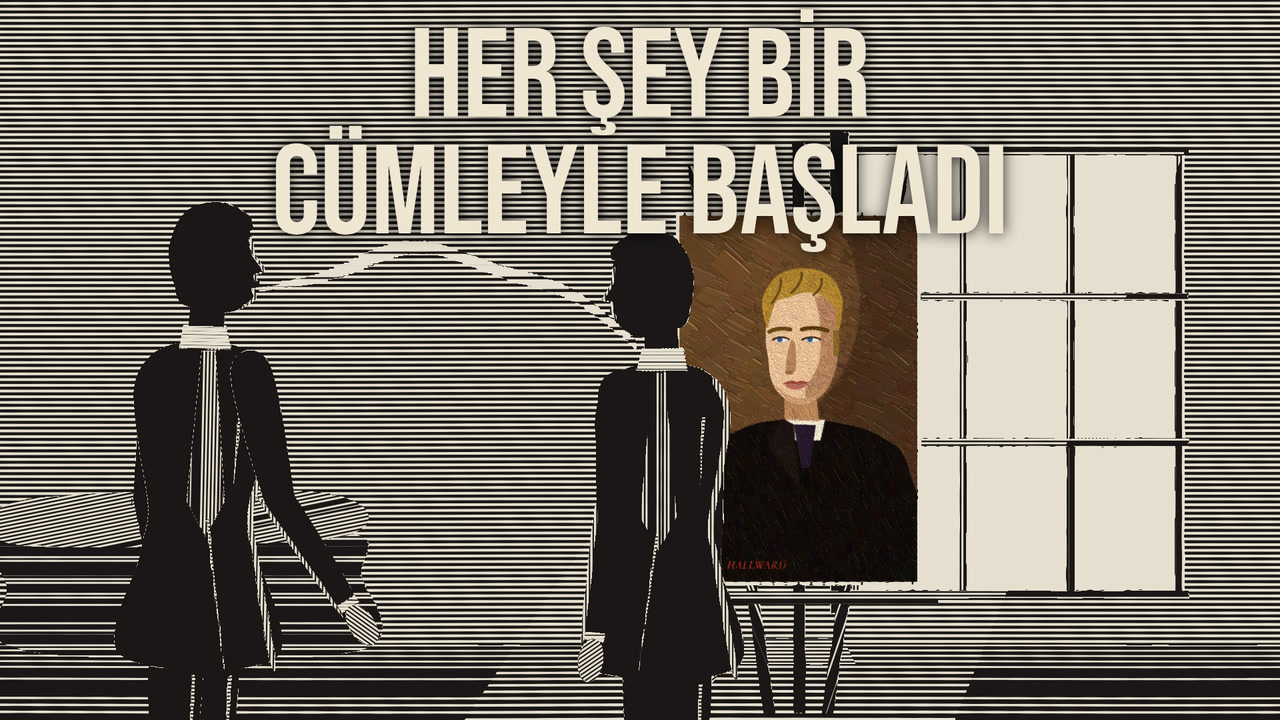
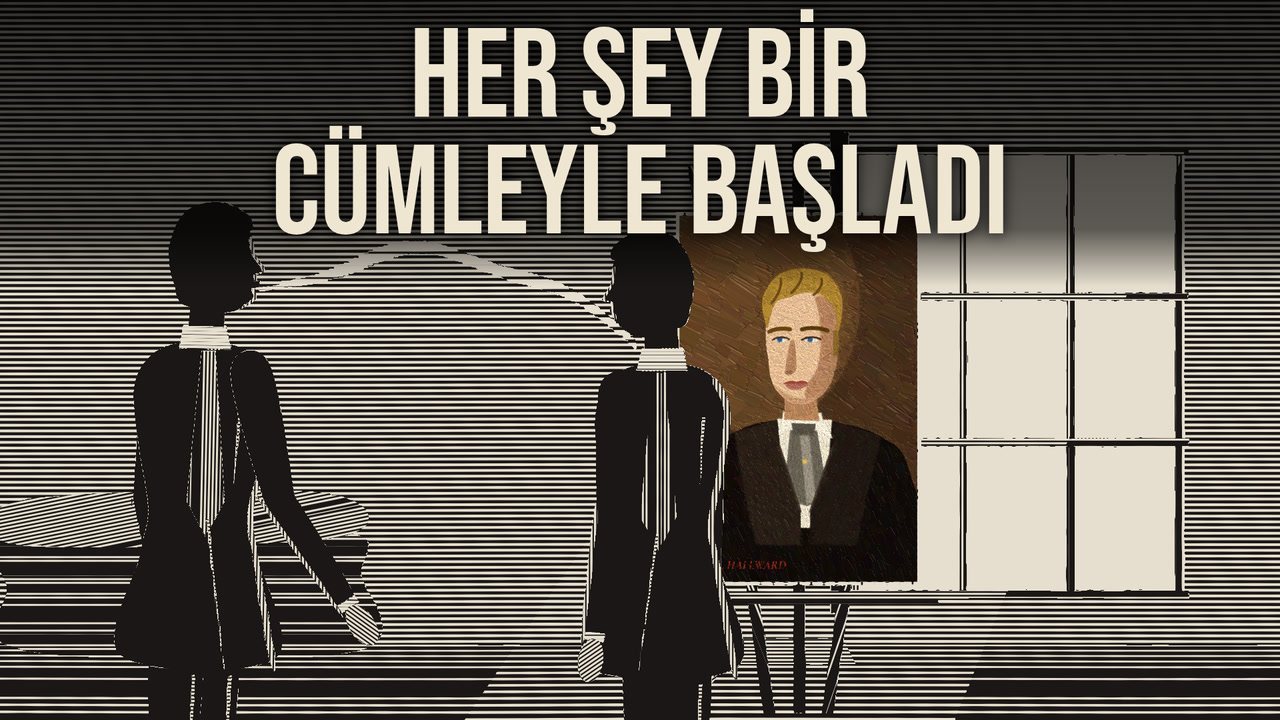
Dorian Gray: Fable son yorumundan düzeltmeler
- Portre: düz beyaz bant + koyu kravat papaz yakası gibi okunuyordu; beyaz gömlek önü, kanatlı yaka, gri ipek fular ve iğne, açık ceket yakaları
- P079 (yüzüklerinden tanınan el): parmaklar ve yüzükler el çerçevesinde elle döndürülüyor (iç içe GR.frame göreli değildi, el balon gibi okunuyordu)
- P025 Sibyl: kol dirsekten kırık, öne uzanır (düz kalkık kol selam gibi); Dorian arkadan ışıkla seçilir
- P055 cinayet: temas ve kalkık kol yok; adım ve ışığın sönmesi
- P061: el kitabın üstüne basmaz, alt kenarından iter
- Kapak A: harf aralığı daraltıldı (İ çerçeve kenarına biniyordu), ele parmak aralıkları; kapak B: yazı altına koyu bant
- Başlık 42 karaktere kısaltıldı; yayin.md bitiş ekranı sağ yarıya; açıklamaya sorgu sorusunun özet olduğu notu

Claude-Session: https://claude.ai/code/session_01DiDBP9datxCT3zuDVSyDaw

Changed region(s): [[0.0, 0.0, 1.0, 0.4889], [0.5625, 0.55, 0.6562, 0.7639], [0.625, 0.4889, 0.6562, 0.5194]]

diff --git a/dorian-gray/lib/sahneler.js b/dorian-gray/lib/sahneler.js
@@ -141,7 +141,7 @@ P('P023', (ctx, st) => levha(ctx, CAM(960, 540, .82), () => { SET.tiyatro({ t: s
 P('P024', (ctx, st) => levha(ctx, CAM(1180, 380, 2.0), () => { SET.tiyatro({ t: st.t }); SIB({ kol: { a: 2.4, b: .9 }, bas: .15 * io(p01(st, 0, 3)) }); }));
 P('P025', (ctx, st) => { const u = io(p01(st, 0, st.d)); levha(ctx, CAM(960, 560, 1.15), () => { INSAN.fill(SET.R(-400, -400, 2800, 1900), .06, { th: 0, id: 0 }); SET.isik({ x: 1300, y: 300, r1: 700, a: .7 });
   for (let k = 0; k < 4; k++) INSAN.fill(SET.R(1400 + k * 90, 100, 60, 800), .2, { th: Math.PI / 2, id: 9 });   // kulis kulisleri
-  INSAN.kadin({ x: 1150, y: 980, h: 620, yon: -1, kol: { a: 1.9, b: .3 }, elbise: .78 }); DOR(800 - 260 * u, { yon: -1, arka: false, ton: .03, yuzTon: .03, kenar: .35, kenarYan: 1, adim: u > 0 && u < 1 ? st.t * .9 : null }); }); }, { yazi: { y: 160 } });
+  INSAN.kadin({ x: 1150, y: 980, h: 620, yon: -1, kol: { a: 1.05, b: 1.0 }, elbise: .78 }); SET.isik({ x: 640 - 200 * u, y: 520, r1: 460, a: .4 }); DOR(800 - 260 * u, { yon: -1, arka: false, ton: .03, yuzTon: .03, kenar: .35, kenarYan: 1, adim: u > 0 && u < 1 ? st.t * .9 : null }); }); }, { yazi: { y: 160 } });
 
 // ═════ EV (hol, şafak) ═════
 const EV_FR = { x: 1150, y: 150, s: .9 };
@@ -318,11 +318,11 @@ P('P083', (ctx, st) => levha(ctx, CAM(1000, 520, 1.4), () => { SET.mahkeme(); co
   GR.save(); GR.frame(h.el[0] + 10, h.el[1] - 20, -.2, 1, 1); INSAN.fill(SET.R(0, -110, 150, 200), .88, { th: 0, id: 10 }); for (let k = 0; k < 8; k++) INSAN.fill(SET.R(14, -90 + k * 22, 120, 3), .3, { th: 0, id: 9 });
   const cev = io(p01(st, 1, 1.8)); if (cev > 0 && cev < 1) INSAN.fill(INSAN.F([[150, -110], [150 - 150 * (1 - cev), -110 - 30 * Math.sin(cev * Math.PI)], [150 - 150 * (1 - cev), 90 - 30 * Math.sin(cev * Math.PI)], [150, 90]]), .95, { th: 0, id: 10 }); GR.restore(); }), { over: null });
 // duvardaki gölgeler: aydınlık duvar, yerdeki lamba; iki büyük gölge; biri ötekine kalkar; lamba söner (kan yok)
-P('P055', (ctx, st) => { const u = io(p01(st, .2, 1.6)), sondu = io(p01(st, st.d - 1.2, st.d - .6)); levha(ctx, CAM(960, 520, 1), () => {
-  INSAN.fill(SET.R(-400, -400, 2800, 1900), .45 * (1 - sondu) + .03, { th: 0, id: 9 }); INSAN.fill(SET.R(-400, 960, 2800, 400), .12 * (1 - sondu) + .02, { th: .1, id: 9 });
+P('P055', (ctx, st) => { const u = io(p01(st, .2, 1.6)), sondu = io(p01(st, st.d - 1.9, st.d - 1.2)); levha(ctx, CAM(960, 520, 1), () => {
+  INSAN.fill(SET.R(-400, -400, 2800, 1900), .3 * (1 - sondu) + .03, { th: 0, id: 9 }); INSAN.fill(SET.R(-400, 960, 2800, 400), .12 * (1 - sondu) + .02, { th: .1, id: 9 });
   if (sondu < 1) SET.isik({ x: 960, y: 1000, r1: 1300, a: .8 * (1 - sondu) });
   INSAN.adam({ x: 700, y: 980, h: 800, yon: 1, ton: .02, kolOn: { a: .5 - .3 * u, b: .2 }, kenar: null, egim: -.05 - .1 * u });
-  INSAN.adam({ x: 1180, y: 980, h: 830 + 140 * u, yon: -1, ton: .02, arka: true, kolOn: { a: 1.2 + 1.7 * u, b: -.6 }, kenar: null, egim: .12 * u });
+  INSAN.adam({ x: 1240 - 160 * u, y: 980, h: 830 + 140 * u, yon: -1, ton: .02, arka: true, kolOn: { a: .12, b: .1 }, kenar: null, egim: .06 * u });   // temas ve kalkık kol yok: adım + ışığın sönmesi
   if (sondu < 1) SET.lamba(960, 1000, st.t, 1.4); }); }, { over: null });
 // sarı kitap: piyanonun üstünde açık kitap; sayfalar ışıkta, satırlar; Dorian'ın eli üstüne bastırır (gravür: renk yok)
 function kitapPlan(ctx, st, el) { levha(ctx, CAM(960, 600, 2.0 + .06 * st.p), () => { INSAN.fill(SET.R(-400, -400, 2800, 1900), .04, { th: 0, id: 9 });
@@ -331,18 +331,26 @@ function kitapPlan(ctx, st, el) { levha(ctx, CAM(960, 600, 2.0 + .06 * st.p), ()
   INSAN.fill(INSAN.Sm([[720, 520], [840, 500], [950, 512], [956, 690], [840, 678], [712, 698]]), .9, { th: 0, id: 10 }); INSAN.fill(INSAN.Sm([[970, 512], [1080, 500], [1200, 520], [1208, 698], [1080, 678], [964, 690]]), .9, { th: 0, id: 10 });
   INSAN.fill(SET.R(952, 508, 16, 184), .2, { th: 0, id: 9 });
   for (let k = 0; k < 9; k++) { const y = 540 + k * 16; INSAN.fill(SET.R(746, y - (k < 1 ? 0 : 0), 186 - (k === 8 ? 80 : 0), 3), .3); INSAN.fill(SET.R(990, y, 186 - (k === 4 ? 70 : 0), 3), .3); }
-  if (el) { const b = io(p01(st, .3, 1.3)); GR.save(); GR.frame(1200 - 60 * b, 660 - 40 * b, Math.PI + .55, 1, 1); INSAN.fill(INSAN.F([[-30, -40], [-300, -56], [-300, 50], [-30, 40]]), .02);
+  if (el) { const b = io(p01(st, .3, 1.3)); GR.save(); GR.frame(1340 - 90 * b, 712, Math.PI + .08, 1, 1); INSAN.fill(INSAN.F([[-30, -40], [-300, -56], [-300, 50], [-30, 40]]), .02);
     INSAN.fill(INSAN.Sm([[-34, -40], [40, -46], [100, -30], [118, -6], [100, 22], [40, 34], [-34, 38]]), .55, { th: .5, id: 5 });
     for (const [y, l] of [[-34, 60], [-12, 70], [10, 64], [30, 48]]) INSAN.fill(INSAN.Sm([[100, y - 7], [100 + l, y - 5], [106 + l, y + 1], [100 + l, y + 7], [100, y + 7]]), .5, { th: .5, id: 5 }); GR.restore(); } }); }
 P('P061', (ctx, st) => kitapPlan(ctx, st, true), { yazi: { y: 150 } });
 P('P067', (ctx, st) => kitapPlan(ctx, st, false), { over: null });
-// yerdeki el: koyu döşeme, kol yeni, kırışık el ve ayrık parmaklar; iki parlak yüzük; yüz yok, kan yok
-P('P079', (ctx, st) => levha(ctx, CAM(960, 570, 2.3 + .06 * st.p), () => { INSAN.fill(SET.R(-400, -400, 2800, 1900), .03, { th: 0, id: 0 }); for (let y = 300; y < 900; y += 70) INSAN.fill(SET.R(-400, y, 2800, 3), .1, { th: 0, id: 9 });
-  SET.isik({ x: 1000, y: 570, r1: 300, a: .5 });
-  GR.save(); GR.frame(900, 580, .1, 1, 1); INSAN.fill(INSAN.F([[-600, -56], [-150, -62], [-130, 60], [-600, 64]]), .015); INSAN.fill(INSAN.F([[-160, -64], [-132, -64], [-118, 62], [-146, 62]]), .55, { th: 0, id: 10 });
-  INSAN.fill(INSAN.Sm([[-122, -52], [-20, -60], [56, -50], [70, 0], [56, 40], [-122, 50]]), .62, { th: 1.2, id: 5 });
-  for (const [y, l, a] of [[-44, 100, -.14], [-16, 116, -.03], [12, 108, .07], [38, 84, .18]]) { GR.save(); GR.frame(60, y, a, 1, 1); INSAN.fill(INSAN.Sm([[-6, -10], [l * .5, -9], [l, -6], [l + 8, 0], [l, 7], [l * .5, 9], [-6, 10]]), .62, { th: a + 1.2, id: 5 }); INSAN.fill(SET.R(l * .45, -9, 4, 18), .15); INSAN.fill(SET.R(l * .8, -7, 3, 14), .15); GR.restore(); }
-  INSAN.fill(INSAN.Sm([[-40, 46], [10, 60], [60, 86], [76, 100], [60, 106], [10, 82], [-40, 58]]), .62, { th: .8, id: 5 });
-  INSAN.fill(SET.R(104, -34, 14, 26), .98, { th: 0, id: 10 }); INSAN.fill(SET.R(100, -6, 14, 26), .98, { th: 0, id: 10 }); SET.isik({ x: 1010, y: 570, r1: 60, a: .7 }); GR.restore(); }), { over: null });
+// yerdeki el: koyu döşeme, koyu kol ve beyaz manşet; soluk el, aralı parmaklar koyu zeminde ayrı okunur; iki parlak yüzük; yüz yok, kan yok
+// (ilk çizimde el, zeminle aynı tonda tarandığı için "balon" gibi okunuyordu; Fable son yorumu 19 Kasım)
+P('P079', (ctx, st) => levha(ctx, CAM(960, 560, 1.7 + .05 * st.p), () => { INSAN.fill(SET.R(-400, -400, 2800, 1900), .02, { th: 0, id: 0 });
+  for (let y = 260; y < 900; y += 90) INSAN.fill(SET.R(-400, y, 2800, 3), .07, { th: 0, id: 9 });
+  GR.save(); GR.frame(900, 560, .08, 1, 1);
+  INSAN.fill(INSAN.F([[-700, -62], [-170, -66], [-150, 66], [-700, 70]]), .01);   // kol
+  INSAN.fill(INSAN.F([[-176, -70], [-130, -68], [-116, 66], [-160, 70]]), .9, { th: 0, id: 10 });   // manşet
+  INSAN.fill(INSAN.Sm([[-124, -50], [-30, -58], [52, -54], [74, -10], [66, 34], [10, 50], [-124, 50]]), .8, { th: .3, id: 5 });   // avuç sırtı
+  // parmaklar ve yüzükler el çerçevesinde elle döndürülür (iç içe GR.frame göreli değil)
+  const rot = (ox, oy, a, pts) => pts.map(([x, y]) => [ox + x * Math.cos(a) - y * Math.sin(a), oy + x * Math.sin(a) + y * Math.cos(a)]);
+  for (const [y, l, a] of [[-44, 104, -.16], [-15, 122, -.04], [14, 112, .08], [40, 86, .2]]) {
+    INSAN.fill(INSAN.Sm(rot(60, y, a, [[-8, -10], [l * .5, -9], [l, -7], [l + 9, 0], [l, 7], [l * .5, 9], [-8, 10]])), .8, { th: .3, id: 5 });
+    INSAN.fill(INSAN.F(rot(60, y, a, [[l * .48, -8], [l * .48 + 3, -8], [l * .48 + 3, 8], [l * .48, 8]])), .3);
+    if (y < 0) { INSAN.fill(INSAN.F(rot(60, y, a, [[l * .3 - 2, -13], [l * .3 + 18, -13], [l * .3 + 18, 13], [l * .3 - 2, 13]])), .02);
+      INSAN.fill(INSAN.F(rot(60, y, a, [[l * .3 + 1, -11], [l * .3 + 15, -11], [l * .3 + 15, 11], [l * .3 + 1, 11]])), .99, { th: 0, id: 10 }); } }
+  SET.isik({ x: 1004, y: 524, r1: 70, a: .6 }); GR.restore(); }), { over: null });
 // eksik plan kimlikleri (taslakta çizilmemiş) uyarısı
 window.initScenes = () => { const var_ = new Set(SHOTS.map(s => s.id)); const eksik = Object.keys(PS).filter(k => !var_.has(k)); if (eksik.length) console.warn('çizilmemiş planlar: ' + eksik.join(' ')); };

diff --git a/dorian-gray/lib/portre_ciz.js b/dorian-gray/lib/portre_ciz.js
@@ -25,11 +25,23 @@
     // zemin: koyu sıcak kahve; resmin içindeki ışık sol üstten
     R.fill(P([[ix - 4, iy - 4], [ix + iw + 4, iy - 4], [ix + iw + 4, iy + ih + 4], [ix - 4, iy + ih + 4]]), mix('#4c3421', '#2c2a1c'), { dir: 30, maxR: 22, group: 'tuval', detail: 1.2 });
     R.fill(Ell(ix + 120, iy + 150, 190, 220), mix('#6a4a2c', '#3a3424'), { dir: 30, maxR: 22, group: 'tuval' });
-    // gövde: koyu redingot, beyaz yaka, koyu kravat; geniş omuz (erkek)
+    // gövde: koyu redingot, açık yakalar; beyaz gömlek önü, kanatlı dik yaka, geniş gri ipek fular ve iğne (Viktorya beyefendisi;
+    // eski düz beyaz bant + koyu kravat papaz yakası gibi okunuyordu, Fable son yorumu 19 Kasım)
     R.fill(S([[cx - 190, iy + ih + 10], [cx - 178, hy + 190], [cx - 110, hy + 132], [cx - 36, hy + 114], [cx + 52, hy + 118], [cx + 132, hy + 142], [cx + 182, hy + 200], [cx + 196, iy + ih + 10]]), mix('#17120f', '#121410'), { dir: 70, maxR: 12, group: 'ceket' });
-    R.fill(P([[cx - 30, hy + 112], [cx + 38, hy + 114], [cx + 30, hy + 150], [cx - 24, hy + 150]]), mix('#eee4ce', '#bab49c'), { dir: 0, maxR: 4, group: 'yaka' });
-    R.fill(P([[cx - 16, hy + 122], [cx + 22, hy + 123], [cx + 12, hy + 196], [cx - 2, hy + 198]]), mix('#2c1e30', '#211b1b'), { dir: 90, maxR: 4, group: 'kravat' });
-    R.fill(P([[cx - 36, hy + 112], [cx - 16, hy + 122], [cx - 6, hy + 236], [cx - 60, hy + 160]]), mix('#221a16', '#1a1814'), { dir: 70, maxR: 5, group: 'ceket' });   // yaka devrik kenarı
+    R.fill(P([[cx - 44, hy + 112], [cx + 50, hy + 114], [cx + 34, hy + 300], [cx - 26, hy + 300]]), mix('#ece2cc', '#b8b29a'), { dir: 90, maxR: 5, group: 'gomlek' });
+    R.fill(P([[cx - 34, hy + 98], [cx + 32, hy + 102], [cx + 36, hy + 128], [cx - 38, hy + 124]]), mix('#f4ecd8', '#c4bea6'), { dir: 0, maxR: 4, group: 'yaka' });
+    R.fill(P([[cx - 10, hy + 120], [cx - 48, hy + 146], [cx - 36, hy + 118]]), mix('#f4ecd8', '#c4bea6'), { dir: 0, maxR: 3, group: 'yaka' });
+    R.fill(P([[cx + 12, hy + 122], [cx + 52, hy + 148], [cx + 40, hy + 120]]), mix('#f4ecd8', '#c4bea6'), { dir: 0, maxR: 3, group: 'yaka' });
+    // fular: boğazda düğüm, aşağı doğru açılan katlı ipek, yakaların altına girer
+    R.fill(P([[cx - 22, hy + 132], [cx + 24, hy + 133], [cx + 44, hy + 250], [cx + 6, hy + 262], [cx - 34, hy + 250]]), mix('#6c6658', '#46443a'), { dir: 100, maxR: 4, group: 'kravat' });
+    R.fill(P([[cx - 6, hy + 140], [cx + 10, hy + 140], [cx + 22, hy + 252], [cx + 6, hy + 260]]), mix('#9a9282', '#62604f'), { dir: 95, maxR: 3, group: 'kravat' });
+    R.fill(P([[cx - 20, hy + 120], [cx + 22, hy + 121], [cx + 18, hy + 142], [cx - 16, hy + 141]]), mix('#5a5448', '#3c3a32'), { dir: 0, maxR: 3, group: 'kravat' });
+    R.fill(Ell(cx + 3, hy + 186, 4.5, 4.5), mix('#d8b860', '#8a7a4a'), { maxR: 2, group: 'igne' });
+    // açık yakalar (lapel): beyaz gömleği V biçiminde keser; ipek kaplama biraz açık
+    R.fill(P([[cx - 118, hy + 136], [cx - 44, hy + 114], [cx - 40, hy + 160], [cx - 4, hy + 272], [cx - 4, hy + 330], [cx - 80, hy + 330], [cx - 104, hy + 220]]), mix('#2e241c', '#22201a'), { dir: 60, maxR: 6, group: 'ceket' });   // sol yaka
+    R.fill(P([[cx + 134, hy + 142], [cx + 52, hy + 116], [cx + 50, hy + 162], [cx + 12, hy + 272], [cx + 12, hy + 330], [cx + 92, hy + 330], [cx + 116, hy + 220]]), mix('#261e18', '#1c1a16'), { dir: 120, maxR: 6, group: 'ceket' });   // sağ yaka
+    R.line(c => { c.moveTo(cx - 40, hy + 160); c.lineTo(cx - 4, hy + 272); }, mix('#4a3c30', '#34302a'), 3, { group: 'ceket' });
+    R.line(c => { c.moveTo(cx + 50, hy + 162); c.lineTo(cx + 12, hy + 272); }, mix('#4a3c30', '#34302a'), 3, { group: 'ceket' });
     // boyun
     R.fill(P([[cx - 32, hy + 60], [cx + 22, hy + 64], [cx + 28, hy + 116], [cx - 32, hy + 114]]), mix('#b8875e', '#6e6a4e'), { dir: 80, maxR: 5, group: 'boyun' });
     // baş: ¾, izleyicinin soluna bakar; çene köşeli (erkek), çökmüşte gıdı sarkar

diff --git a/dorian-gray/lib/kapak.js b/dorian-gray/lib/kapak.js
@@ -6,7 +6,7 @@
   const ST = { t: 2.2, lt: 2.2, p: .5, d: 4, at: 0 };
   function yazi(ctx, satirlar, x, y, px, o = {}) {
     ctx.save(); ctx.setTransform(1, 0, 0, 1, 0, 0); ctx.textAlign = o.align || 'left'; ctx.textBaseline = 'alphabetic';
-    ctx.font = `400 ${px}px "Bebas Neue"`; const lh = px * (o.lh || .92);
+    ctx.font = `400 ${px}px "Bebas Neue"`; if (o.ls) ctx.letterSpacing = o.ls + 'px'; const lh = px * (o.lh || .92);
     satirlar.forEach((s, i) => {
       ctx.shadowColor = 'rgba(0,0,0,.85)'; ctx.shadowBlur = px * .12; ctx.fillStyle = (o.renk && o.renk[i]) || '#efe6d2'; ctx.fillText(s, x, y + i * lh);
     });
@@ -42,10 +42,11 @@
       INSAN.fill(INSAN.F([[22, -36], [40, -36], [40, 40], [22, 40]]), .45, { th: 0, id: 9 });
       INSAN.fill(INSAN.Sm([[24, -30], [-30, -40], [-66, -30], [-84, -8], [-70, 10], [-40, 6], [-54, 26], [-20, 34], [24, 32]]), .06);
       INSAN.fill(INSAN.Sm([[-30, -40], [-66, -30], [-84, -8], [-80, -14], [-62, -34], [-30, -44]]), .7, { th: 0, id: 10 });
+      for (const [y0, x1] of [[-21, -80], [-3, -74], [15, -60]]) INSAN.fill(INSAN.F([[-26, y0 - 2], [x1, y0 - 4], [x1, y0], [-26, y0 + 2]]), .62, { th: 0, id: 10 });   // parmak aralıkları (Fable: "parmaksız eldiven")
       GR.restore();
       
     });
-    yazi(ctx, ['KİMSE', 'GÖRMEDİ'], o.tx ?? 90, o.ty ?? 430, o.px ?? 300);
+    yazi(ctx, ['KİMSE', 'GÖRMEDİ'], o.tx ?? 44, o.ty ?? 430, o.px ?? 290, { ls: o.ls ?? -7 });   // İ çerçeve kenarına binmesin (Fable)
   }
   function kapakB(ctx, o) {
     const cam = CAM(o.cx ?? 1040, o.cy ?? 420, o.z ?? .95); let Mf;
@@ -59,6 +60,7 @@
       for (let k = 0; k <= 70; k++) { const q = k / 70, x = x0 + (x1 - x0) * q, y = y0 + (y1 - y0) * q - Math.sin(q * Math.PI) * (o.kav ?? 90) + Math.sin(q * 13) * 9;
         INSAN.fill(SET.E2(x, y, 10 + 6 * Math.sin(q * Math.PI), 4 + 2 * Math.sin(q * Math.PI), .3 + q), .92 - .15 * q, { th: 0, id: 10 }); }
     });
+    if (o.bant !== 0) { ctx.save(); ctx.setTransform(1, 0, 0, 1, 0, 0); const g = ctx.createLinearGradient(0, 0, 0, o.bant ?? 430); g.addColorStop(0, 'rgba(0,0,0,.78)'); g.addColorStop(.8, 'rgba(0,0,0,.6)'); g.addColorStop(1, 'rgba(0,0,0,0)'); ctx.fillStyle = g; ctx.fillRect(0, 0, W, o.bant ?? 430); ctx.restore(); }   // yazı altına koyu bant (Fable)
     yazi(ctx, o.satir || ['HER ŞEY BİR', 'CÜMLEYLE BAŞLADI'], o.tx ?? 960, o.ty ?? 175, o.px ?? 190, { align: 'center' });
   }
   window.kapak = (v, o = {}) => {

diff --git a/dorian-gray/youtube.md b/dorian-gray/youtube.md
@@ -1,10 +1,11 @@
 # Dorian Gray'in Portresi: YouTube metinleri (kurulsuz üretim; başkan)
 
 ## Başlık
-**Seçilen (55 karakter):** Dorian Gray'in Portresi: Kimse Görmeseydi Ne Yapardın?
+**Seçilen (42 karakter):** Dorian Gray: Kimse Görmeseydi Ne Yapardın?
+- Fable'ın son yorumuyla kısaltıldı (19 Kasım): 54 karakterlik ilk seçim ("Dorian Gray'in Portresi: Kimse Görmeseydi Ne Yapardın?") mobil akışta "…Ne Yap" diye kesiliyor, sorunun kendisi düşüyordu. Kapı kelimesi "dorian gray" başta kalıyor; "Dorian Gray'in Portresi" açıklamanın ilk cümlesinde ve etiketlerde.
 - On aday ve eleme `uretim_plani.md` §5'te. Tanıdık kapı ("dorian gray", Türkçe aramada 204 B medyan) başta; akış ~45–50 karakterde kesse de kapı düşmez. Soru izleyicinin kendi hayatına sorulur (talep kontrolü b) ve filmin ilk cümlesiyle aynıdır (0:00 "…o tabloyu kimse görmeseydi, ne yapardın?"), son cümlede döner (7:51).
 - Kalıp: "Ne Zaman …?" (Narkissos) ve "Neden …?" değil; "… Ne Yapardın?" koşullu kişisel soru.
-- Yedek (test sürerken kullanılmaz): Kimse Görmeseydi Ne Yapardın? | Dorian Gray'in Portresi
+- Yedek (test sürerken kullanılmaz): Dorian Gray'in Portresi: Kimse Görmeseydi Ne Yapardın?
 
 ## Açıklama
 Oscar Wilde'ın Dorian Gray'in Portresi: yaptığın her şey yüzüne değil de bir tabloya yazılsaydı ve o tabloyu kimse görmeseydi, ne yapardın?
@@ -29,6 +30,7 @@ Kaynaklar
 - Stuart Mason, Oscar Wilde: Art and Morality (1912): 1890 basın tartışması ve 3 Nisan 1895 sorgusu (Carson'ın soruları, Wilde'ın "That expresses my view of art" cevabı).
 - Wilde'ın Ralph Payne'e mektubu (üç karakter sözü): The Letters of Oscar Wilde, ed. R. Hart-Davis (1962), s. 352.
 - 25 Mayıs 1895 mahkûmiyeti: iki yıl ağır çalışma.
+- Not: videoda avukatın sorusu ("Bu ahlaksız bir kitap değil mi?") Carson'ın sorgudaki sorularının özetidir, birebir alıntı değildir.
 
 Görseller (kamu malı)
 - Oscar Wilde, Napoleon Sarony fotoğrafları (New York, 1882): The Metropolitan Museum of Art, Open Access (CC0).

diff --git a/dorian-gray/yayin.md b/dorian-gray/yayin.md
@@ -9,7 +9,7 @@
 4. **Kitle:** "Hayır, çocuklara özel değil".
 5. **Değiştirilmiş/sentetik içerik:** gerçekçi bir kişi ya da olay göstermiyor (animasyon; Wilde'ın 1882 fotoğrafları ve 1890 dergi sayfası arşiv görseli olarak gravür süzgecinden geçirilmiş). Ses yapay zekâ: açıklamada yazılı. YouTube'un o günkü sorusunu oku; gerçekçi içerik değilse "Hayır".
 6. **Altyazı:** Altyazılar → Dosya yükle → "Zamanlamalı" → `dorian-gray.tr.srt` (Türkçe).
-7. **Bitiş ekranı (son 20 sn, 7:56–8:16):** anlatımın son cümlesi "Kafka'nın Dönüşüm'ü ekranda." ("ekranda" 8:01,9'da, bitiş ekranının içinde). Ekranın sol yarısı boş (kilitli oda sağda): sola **Kafka videosu** ("Kafka'nın Dönüşüm'ü: İşe Yaramasan da Seni Severler miydi?"), altına **abone ol**; ikinci öğe istenirse **Narkissos videosu** (aynı temanın öteki yüzü: yansıma). Sağ alttaki rozet alanı boş.
+7. **Bitiş ekranı (son 20 sn, 7:56–8:16):** anlatımın son cümlesi "Kafka'nın Dönüşüm'ü ekranda." ("ekranda" 8:01,9'da, bitiş ekranının içinde). Ekranın sağ yarısı boş ve karanlık (lamba x≈360, örtülü tablo x≈540–1080; Fable son yorumunda düzeltildi): sağ yarıya **Kafka videosu** ("Kafka'nın Dönüşüm'ü: İşe Yaramasan da Seni Severler miydi?"), altına **abone ol**; ikinci öğe istenirse **Narkissos videosu** (aynı temanın öteki yüzü: yansıma). Sağ alttaki rozet alanı boş.
 8. **Kartlar (isteğe bağlı):** 7:39 ("Güzellik bir lanet miydi?") → Narkissos videosu.
 9. **Oynatma listesi:** "Kitapların Sorduğu Sorular".
 10. **Sabit yorum:** `youtube.md` → "Sabit yorum".
